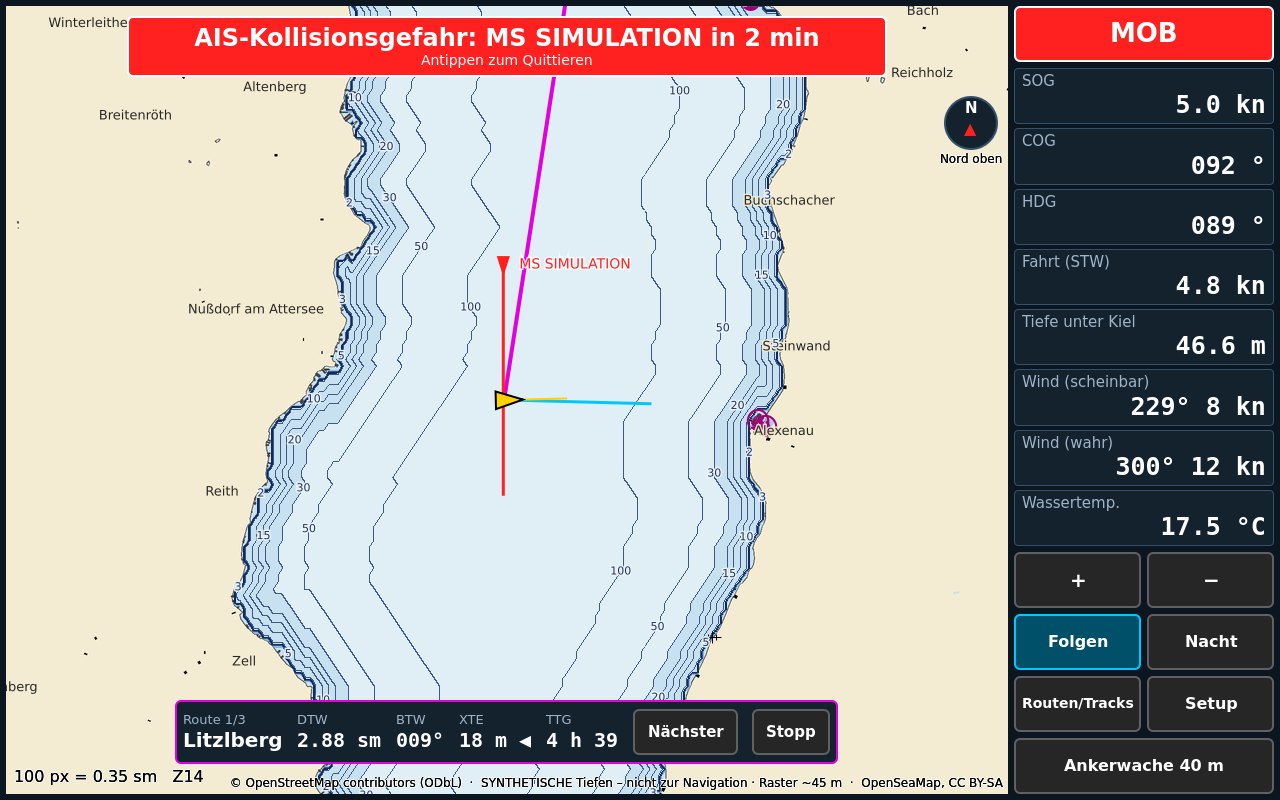
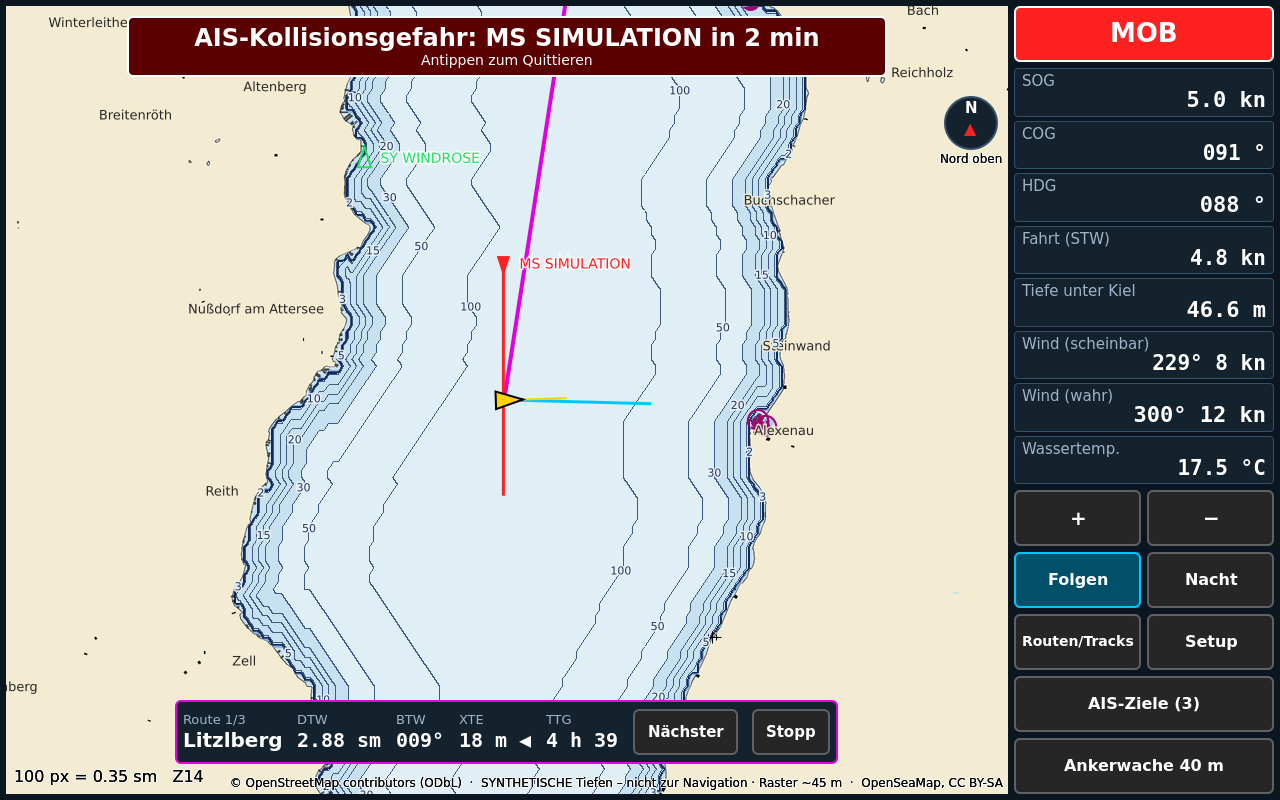
Screenshots incl. AIS target list

diff --git a/README.md b/README.md
@@ -22,6 +22,11 @@ funktional angelehnt an Geräte wie den Garmin GPSMAP 9000xsv. Schwesterprojekt 
 ![OpenBoat – Kurs oben](docs/screenshots/courseup.png)
 </details>
 
+<details><summary>AIS-Zielliste</summary>
+
+![OpenBoat – AIS-Zielliste](docs/screenshots/ais.png)
+</details>
+
 <details><summary>Einstellungen</summary>
 
 ![OpenBoat – Einstellungen](docs/screenshots/settings.png)
